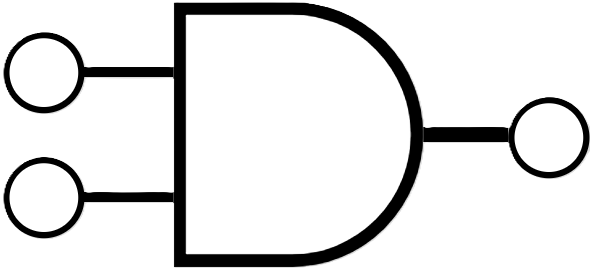
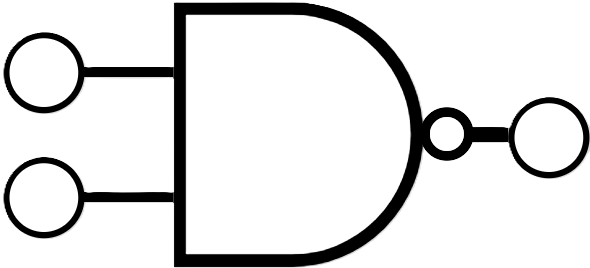
added simulation

Changed region(s): [[0.7017, 0.3881, 0.8237, 0.597]]

diff --git a/app/src/main/java/com/example/logicgates/DetailActivity.kt b/app/src/main/java/com/example/logicgates/DetailActivity.kt
@@ -1,6 +1,10 @@
 package com.example.logicgates
 
 import android.os.Bundle
+import android.view.View
+import android.widget.CompoundButton
+import android.widget.TextView
+import android.widget.ToggleButton
 import androidx.activity.enableEdgeToEdge
 import androidx.appcompat.app.AppCompatActivity
 import androidx.core.view.ViewCompat
@@ -9,6 +13,9 @@ import com.example.logicgates.databinding.ActivityDetailBinding
 
 class DetailActivity : AppCompatActivity() {
     private lateinit var binding: ActivityDetailBinding
+    private lateinit var sim_button_1:ToggleButton
+    private lateinit var sim_button_2:ToggleButton
+    private lateinit var sim_result:TextView
     override fun onCreate(savedInstanceState: Bundle?) {
         super.onCreate(savedInstanceState)
         //enableEdgeToEdge()
@@ -26,8 +33,134 @@ class DetailActivity : AppCompatActivity() {
             binding.title.text=gate.title
             binding.description.text=gate.description
             binding.truthTable.setImageResource(gate.truth_table)
+            binding.simulate.setImageResource(gate.simulate)
 
         }
+        sim_button_1=findViewById(R.id.sim_button_1)
+        sim_button_2=findViewById(R.id.sim_button_2)
+        sim_result=findViewById(R.id.sim_result)
+
+        //AND GATE
+        if(binding.title.text=="AND Gate"){
+            sim_button_1.setOnCheckedChangeListener { buttonView: CompoundButton, isChecked: Boolean ->
+                if (sim_button_1.isChecked && sim_button_2.isChecked()) {
+                    sim_result.text = "1"
+                } else {
+                    sim_result.text = "0"
+                }
+            }
+            sim_button_2.setOnCheckedChangeListener { buttonView: CompoundButton, isChecked: Boolean ->
+                if (sim_button_1.isChecked && sim_button_2.isChecked()) {
+                    sim_result.text = "1"
+                } else {
+                    sim_result.text = "0"
+                }
+            }
+        }
+        //OR GATE
+        else if(binding.title.text=="OR Gate") {
+            sim_button_1.setOnCheckedChangeListener { buttonView: CompoundButton, isChecked: Boolean ->
+                if (sim_button_1.isChecked || sim_button_2.isChecked()) {
+                    sim_result.text = "1"
+                } else {
+                    sim_result.text = "0"
+                }
+            }
+            sim_button_2.setOnCheckedChangeListener { buttonView: CompoundButton, isChecked: Boolean ->
+                if (sim_button_1.isChecked || sim_button_2.isChecked()) {
+                    sim_result.text = "1"
+                } else {
+                    sim_result.text = "0"
+                }
+            }
+        }
+        //NOT GATE
+        else if(binding.title.text=="NOT Gate") {
+            sim_result.setText("1")
+            sim_button_1.setOnCheckedChangeListener { buttonView: CompoundButton, isChecked: Boolean ->
+                if (sim_button_1.isChecked) {
+                    sim_result.text = "0"
+                } else {
+                    sim_result.text = "1"
+                }
+            }
+            sim_button_2.visibility = View.GONE
+        }
+
+        //NAND GATE
+        if(binding.title.text=="NAND Gate"){
+            sim_result.setText("1")
+            sim_button_1.setOnCheckedChangeListener { buttonView: CompoundButton, isChecked: Boolean ->
+                if (sim_button_1.isChecked && sim_button_2.isChecked()) {
+                    sim_result.text = "0"
+                } else {
+                    sim_result.text = "1"
+                }
+            }
+            sim_button_2.setOnCheckedChangeListener { buttonView: CompoundButton, isChecked: Boolean ->
+                if (sim_button_1.isChecked && sim_button_2.isChecked()) {
+                    sim_result.text = "0"
+                } else {
+                    sim_result.text = "1"
+                }
+            }
+        }
+        //NOR GATE
+        else if(binding.title.text=="NOR Gate") {
+            sim_result.setText("1")
+            sim_button_1.setOnCheckedChangeListener { buttonView: CompoundButton, isChecked: Boolean ->
+                if (sim_button_1.isChecked || sim_button_2.isChecked()) {
+                    sim_result.text = "0"
+                } else {
+                    sim_result.text = "1"
+                }
+            }
+            sim_button_2.setOnCheckedChangeListener { buttonView: CompoundButton, isChecked: Boolean ->
+                if (sim_button_1.isChecked || sim_button_2.isChecked()) {
+                    sim_result.text = "0"
+                } else {
+                    sim_result.text = "1"
+                }
+            }
+        }
+
+        //XOR Gate
+        else if(binding.title.text=="XOR Gate") {
+            sim_button_1.setOnCheckedChangeListener { buttonView: CompoundButton, isChecked: Boolean ->
+                if (sim_button_1.isChecked == sim_button_2.isChecked()) {
+                    sim_result.text = "0"
+                } else {
+                    sim_result.text = "1"
+                }
+            }
+            sim_button_2.setOnCheckedChangeListener { buttonView: CompoundButton, isChecked: Boolean ->
+                if (sim_button_1.isChecked == sim_button_2.isChecked()) {
+                    sim_result.text = "0"
+                } else {
+                    sim_result.text = "1"
+                }
+            }
+        }
+
+        //XNOR Gate
+        else if(binding.title.text=="XNOR Gate") {
+            sim_result.setText("1")
+            sim_button_1.setOnCheckedChangeListener { buttonView: CompoundButton, isChecked: Boolean ->
+                if (sim_button_1.isChecked == sim_button_2.isChecked()) {
+                    sim_result.text = "1"
+                } else {
+                    sim_result.text = "0"
+                }
+            }
+            sim_button_2.setOnCheckedChangeListener { buttonView: CompoundButton, isChecked: Boolean ->
+                if (sim_button_1.isChecked == sim_button_2.isChecked()) {
+                    sim_result.text = "1"
+                } else {
+                    sim_result.text = "0"
+                }
+            }
+        }
+
     }
 
     private fun gateFromID(gateID: Int): Gate? {

diff --git a/app/src/main/java/com/example/logicgates/MainActivity.kt b/app/src/main/java/com/example/logicgates/MainActivity.kt
@@ -49,7 +49,8 @@ class MainActivity : AppCompatActivity(), GateClickListener {
                     "Example: 1 AND 1 = 1\n"+
                     "\n" +
                     "Truth Table:",
-            R.drawable.and_truth_table
+            R.drawable.and_truth_table,
+            R.drawable.and,
         )
         gatelist.add(gate1)
 
@@ -63,7 +64,8 @@ class MainActivity : AppCompatActivity(), GateClickListener {
                     "Example: 0 OR 1 = 1\n"+
                     "\n" +
                     "Truth Table:",
-            R.drawable.or_truth_table
+            R.drawable.or_truth_table,
+            R.drawable.or,
         )
         gatelist.add(gate2)
 
@@ -77,7 +79,8 @@ class MainActivity : AppCompatActivity(), GateClickListener {
                     "Example: NOT 0 = 1\n"+
                     "\n" +
                     "Truth Table:",
-            R.drawable.not_truth_table
+            R.drawable.not_truth_table,
+            R.drawable.not,
         )
         gatelist.add(gate3)
 
@@ -91,7 +94,8 @@ class MainActivity : AppCompatActivity(), GateClickListener {
                     "Example: 1 NAND 1 = 0\n"+
                     "\n" +
                     "Truth Table:",
-            R.drawable.nand_truth_table
+            R.drawable.nand_truth_table,
+            R.drawable.nand,
         )
         gatelist.add(gate4)
 
@@ -105,7 +109,8 @@ class MainActivity : AppCompatActivity(), GateClickListener {
                     "Example: 0 NOR 0 = 1\n"+
                     "\n" +
                     "Truth Table:",
-            R.drawable.nor_truth_table
+            R.drawable.nor_truth_table,
+            R.drawable.nor,
         )
         gatelist.add(gate5)
         val gate6=Gate(
@@ -118,7 +123,8 @@ class MainActivity : AppCompatActivity(), GateClickListener {
                     "Example: 1 XOR 0 = 1\n"+
                     "\n" +
                     "Truth Table:",
-            R.drawable.xor_truth_table
+            R.drawable.xor_truth_table,
+            R.drawable.xor,
         )
         gatelist.add(gate6)
 
@@ -132,7 +138,8 @@ class MainActivity : AppCompatActivity(), GateClickListener {
                     "Example: 1 XNOR 1 = 1\n"+
                     "\n" +
                     "Truth Table:",
-            R.drawable.xnor_truth_table
+            R.drawable.xnor_truth_table,
+            R.drawable.xnor,
         )
         gatelist.add(gate7)
 

diff --git a/app/src/main/java/com/example/logicgates/Gate.kt b/app/src/main/java/com/example/logicgates/Gate.kt
@@ -6,5 +6,6 @@ class Gate (
     var title:String,
     var description:String,
     var truth_table:Int,
+    var simulate:Int,
     var id:Int? =gatelist.size
 )
